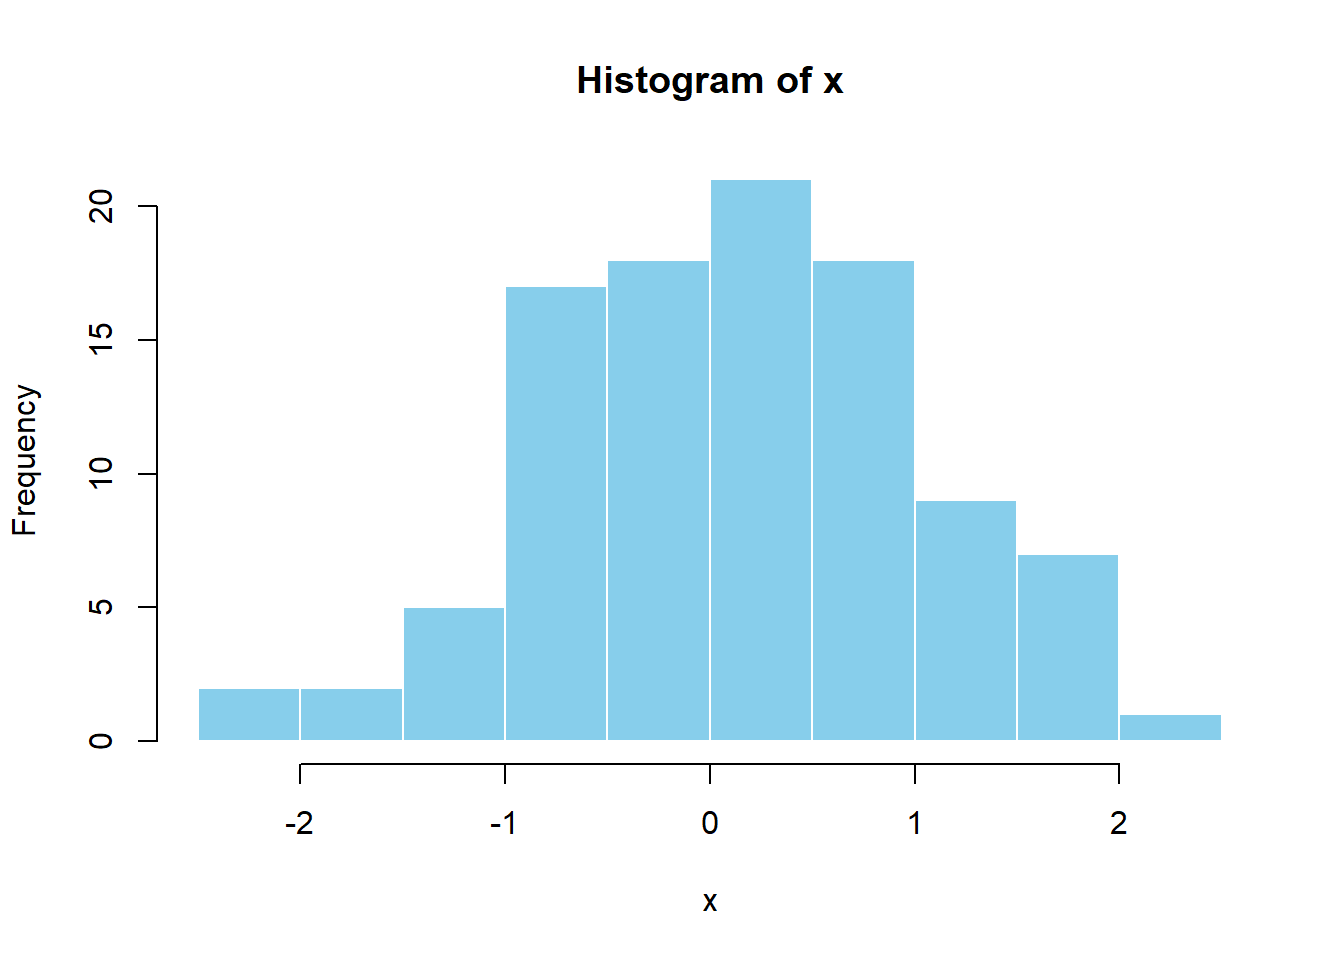
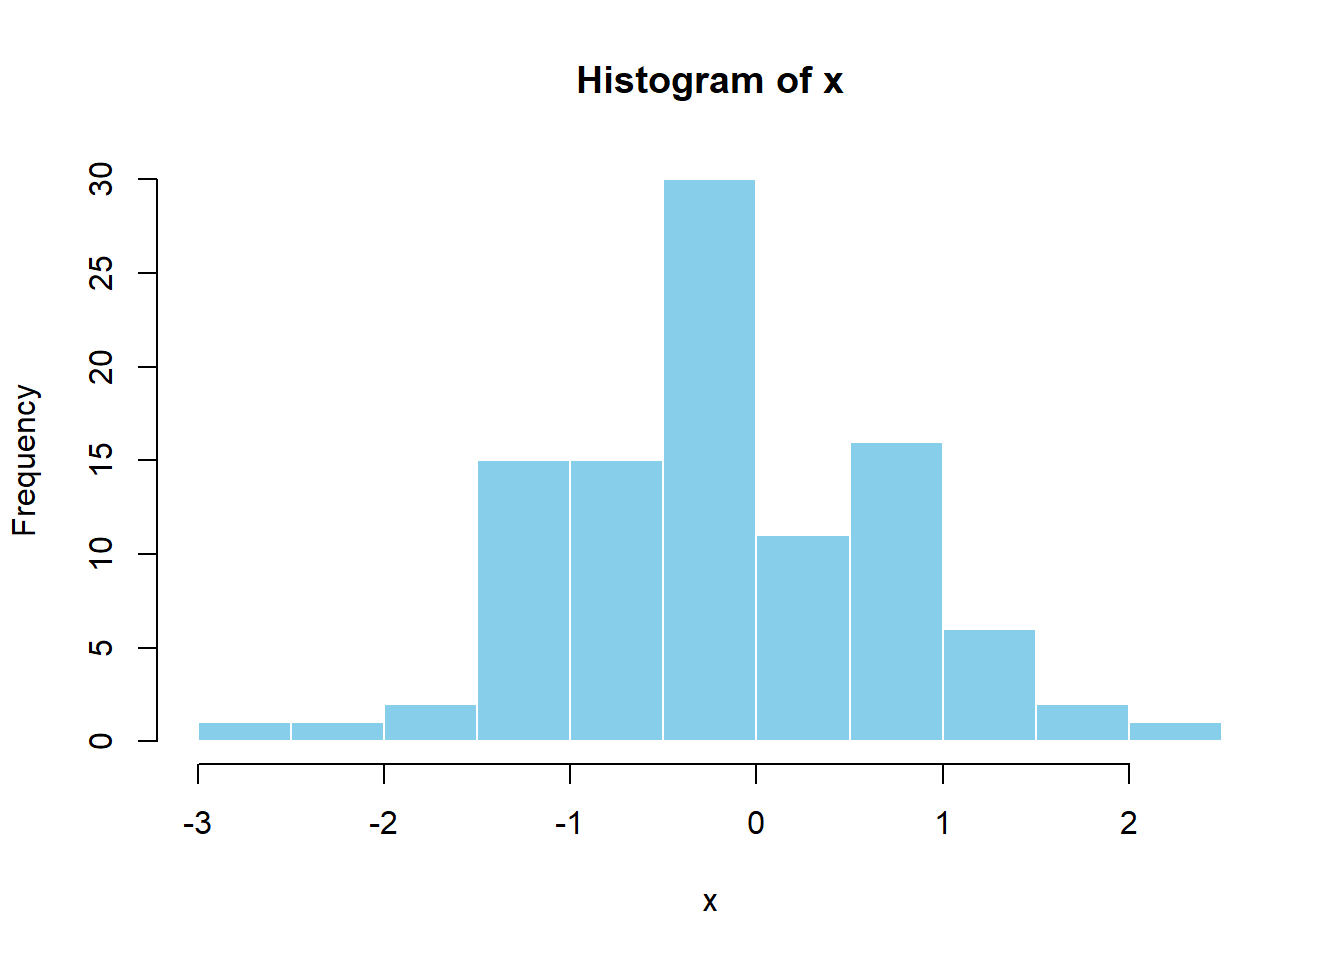
Navbar

diff --git a/docs/topics/r_lesson.html b/docs/topics/r_lesson.html
@@ -187,8 +187,8 @@ pre > code.sourceCode > span > a:first-child::before { text-decoration: underlin
 <span id="cb1-2"><a href="#cb1-2" aria-hidden="true" tabindex="-1"></a>x <span class="ot">&lt;-</span> <span class="fu">rnorm</span>(<span class="dv">100</span>)</span>
 <span id="cb1-3"><a href="#cb1-3" aria-hidden="true" tabindex="-1"></a><span class="fu">summary</span>(x)</span></code></pre></div><button title="Copy to Clipboard" class="code-copy-button"><i class="bi"></i></button></div>
 <div class="cell-output cell-output-stdout">
-<pre><code>    Min.  1st Qu.   Median     Mean  3rd Qu.     Max. 
--2.27157 -0.50616  0.08084  0.12070  0.68449  2.42708 </code></pre>
+<pre><code>   Min. 1st Qu.  Median    Mean 3rd Qu.    Max. 
+-2.5103 -0.7345 -0.2465 -0.1855  0.4729  2.0424 </code></pre>
 </div>
 <div class="code-copy-outer-scaffold"><div class="sourceCode cell-code" id="cb3"><pre class="sourceCode r code-with-copy"><code class="sourceCode r"><span id="cb3-1"><a href="#cb3-1" aria-hidden="true" tabindex="-1"></a><span class="co"># Plot histogram</span></span>
 <span id="cb3-2"><a href="#cb3-2" aria-hidden="true" tabindex="-1"></a><span class="fu">hist</span>(x, <span class="at">main =</span> <span class="st">"Histogram of x"</span>, <span class="at">col =</span> <span class="st">"skyblue"</span>, <span class="at">border =</span> <span class="st">"white"</span>)</span></code></pre></div><button title="Copy to Clipboard" class="code-copy-button"><i class="bi"></i></button></div>

diff --git a/docs/index.html b/docs/index.html
@@ -124,8 +124,7 @@ ul.task-list li input[type="checkbox"] {
 
 <header id="title-block-header" class="quarto-title-block default">
 <div class="quarto-title">
-<!-- <h1 class="title">Welcome</h1> -->
-<h1 class="title"></h1>
+<h1 class="title">Welcome</h1>
 </div>
 
 
@@ -146,15 +145,6 @@ ul.task-list li input[type="checkbox"] {
 <h1>Welcome to Remote Sensing Lessons</h1>
 <p>This site provides interactive tutorials in Python and R using real-world remote sensing data.</p>
 <p>Choose a lesson from the navigation bar to get started.</p>
-
-<h2>Helpful links for installing required programs</h2>
-
-<ul>
-  <li>Download <a href="https://www.python.org/downloads/">Python</a></li>
-  <li>Download <a href="https://www.rstudio.com/products/rstudio/download/">RStudio</a></li>
-  <li>Download <a href="https://quarto.org/docs/download/">Quarto</a></li>
-</ul>
-
 
 
 </section>
